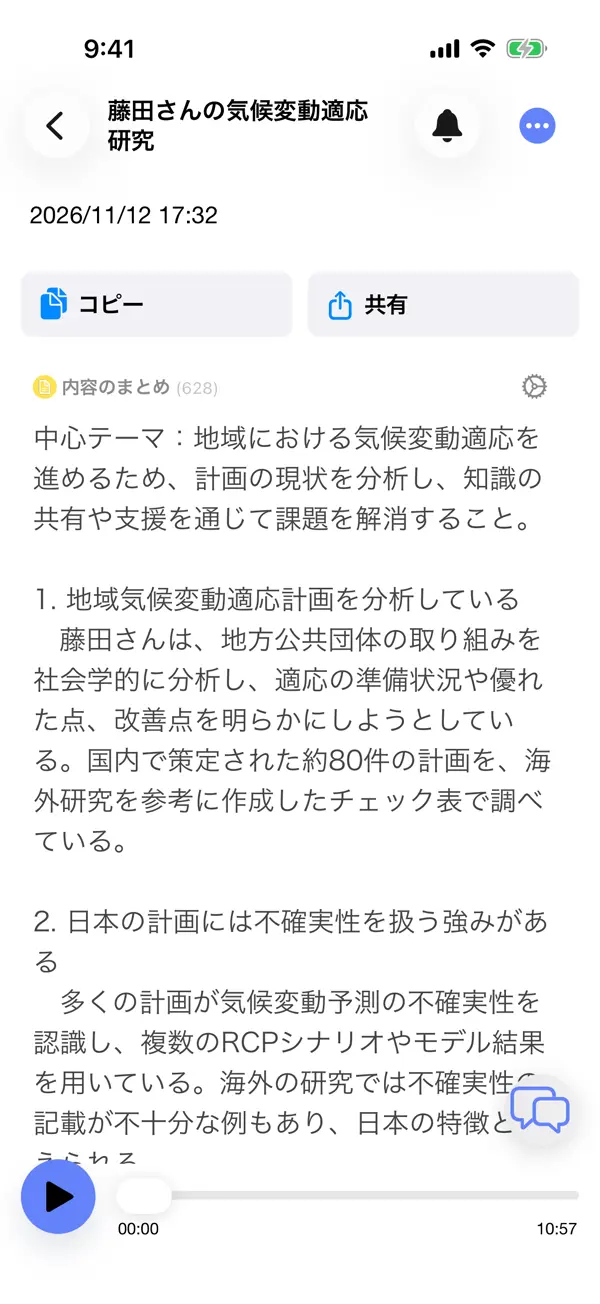
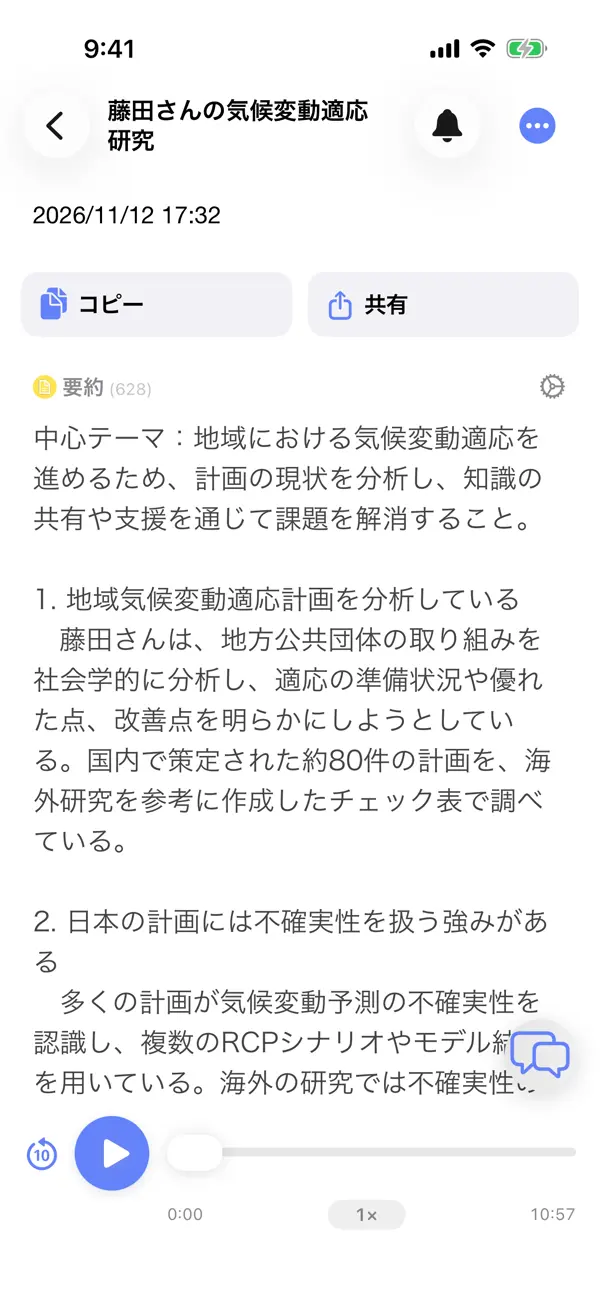
fix(guides): 講義と話題マップのガイドを、配信中の版の画面と文言に合わせる (#59)
* fix(guides): 講義と話題マップのガイドを、配信中の版の画面と文言に合わせる

- 画面写真を、バージョン2.11.73で撮り直したものに差し替える
- 変わった文言（要約、話題、段落、ノートに聞く）に合わせて説明を直す
- 確認問題の3問目の全文を載せる
- 「地震対策」の話題は、11件すべてを読んだ結果に書き直す
- 検証の条件に、どの版で作り、どの版で確かめたかを書く

Claude-Session: https://claude.ai/code/session_01CJsRxCTpnZew4R4ksq7zCX

* fix(guides): 「地震対策」の話題の分け方と、所要時間を測った版の表記を直す

Claude-Session: https://claude.ai/code/session_01CJsRxCTpnZew4R4ksq7zCX

---------

diff --git a/scripts/guides/data.js b/scripts/guides/data.js
@@ -960,12 +960,12 @@ const lectureNotes = {
     { id: 'result', cta: 'after-result', title: '36分の講義で試した結果', html: `
       <dl class="facts">
         <dt>音声</dt><dd>36分19秒。講師1人が話す、研修の講義です</dd>
-        <dt>かかった時間</dt><dd>取り込みを始めてから、ノートができるまで約9分でした（1回の測定）</dd>
+        <dt>かかった時間</dt><dd>取り込みを始めてから、ノートができるまで約9分でした（バージョン2.11.68で1回測定）</dd>
         <dt>文字起こし</dt><dd>アプリからコピーした本文は、改行を含めて12,697文字でした</dd>
         <dt>要約</dt><dd>747文字。文字起こしの後に、操作をしなくても作られました</dd>
         <dt>題名</dt><dd>「気候変動予測とダウンスケーリング技術について」と自動で付きました</dd>
       </dl>
-      ${wide(fig('/assets/guides/lecture-notes/note-summary.webp', '講義のノートの画面。題名の下に、内容のまとめが表示されている', '取り込んだ後のノート。上に要約、下に本文が続く', ...FULL))}
+      ${wide(fig('/assets/guides/lecture-notes/note-summary.webp', '講義のノートの画面。題名の下に、要約が表示されている', '取り込んだ後のノート。上に要約、下に本文が続く', ...FULL))}
       <p>アプリが作った要約の全文です。修正していません。</p>
       <pre class="code"><code>中心テーマ：気候変動予測データの成り立ちと、目的に応じた適切な利用
 
@@ -990,7 +990,7 @@ CMIP5などの全球モデルは世界全体を計算するため、日本海側
         <li><h3>録音を取り込む</h3><p>「設定」タブの「ファイルをインポート」を開き、「音声ファイルをインポート」で録音を選びます。今回は、「ファイル」アプリに置いた音声を選びました。取り込みの画面は<a href="/guides/ai-minutes/#steps">議事録のガイド</a>に載せています。</p></li>
         <li><h3>要約で全体をつかむ</h3><p>処理が終わると、ノートの上に要約が出ます。まず要約を読み、講義がいくつの話題でできているかをつかみます。</p></li>
         <li><h3>本文に戻って確かめる</h3><p>試験やレポートで使う数値と用語は、本文を検索して確かめます。本文は講師の話し言葉のままなので、前後の文脈も読めます。</p></li>
-        <li><h3>確認問題を作る</h3><p>ノートの右下のボタンからチャットを開き、問題を作るよう頼みます。答えは自分で書き、本文と照らします。</p></li>
+        <li><h3>確認問題を作る</h3><p>ノートの右下にある吹き出しのボタンからチャットを開き、問題を作るよう頼みます。答えは自分で書き、本文と照らします。</p></li>
         <li><h3>書き出す</h3><p>「コピー」から、本文か要約を選んでコピーできます。メモアプリなどに貼り、自分の言葉で書き足すと、復習ノートになります。書き方は、下の<a href="#note-example">復習ノートの例</a>を参考にしてください。</p></li>
       </ol>` },
     { id: 'note-example', title: '復習ノートの例', html: `
@@ -1025,12 +1025,12 @@ CMIP5などの全球モデルは世界全体を計算するため、日本海側
       </tbody></table></div>
       <p>同じ用語でも、正しい箇所と誤った箇所がありました。「全球モデル」は17か所、「ダウンスケーリング」は27か所で正しく表記され、上の表の箇所だけが別の字になっています。誤りは、用語を検索しても見つかりません。配布資料や板書と照らしながら、本文を通して読んでください。</p>` },
     { id: 'quiz', title: 'チャットで確認問題を作った結果', html: `
-      <p>ノートのチャットを開くと、「長めの講義ですね」という案内と、「重要概念を整理」「テスト問題を作成」などの候補が出ました。「テスト問題を作成」を選ぶと、次の3問が返りました。3問目は、画面で読めた範囲を載せています。</p>
-      ${fig('/assets/guides/lecture-notes/chat-welcome.webp', 'チャットを開いた直後の画面。要約して、重要概念を整理、テスト問題を作成の候補がある', 'チャットを開いた直後の候補', ...FULL)}${fig('/assets/guides/lecture-notes/chat-quiz.webp', 'チャットの画面。理解度確認のテスト問題を3つ作成してください、という依頼と、問題1から問題3が表示されている', '返ってきた確認問題', ...FULL)}
+      <p>ノートの右下にある吹き出しのボタンを押すと、チャットが開きます。入力欄の上に、「要約して」「重要概念を整理」「テスト問題を作成」などの候補が並びます。「テスト問題を作成」を選ぶと、次の3問が返りました。</p>
+      ${wide(fig('/assets/guides/lecture-notes/chat-quiz.webp', 'チャットの画面。理解度確認のテスト問題を3つ作成してください、という依頼と、問題1から問題3が表示されている。下に候補が並ぶ', '返ってきた確認問題と、入力欄の上の候補', ...FULL))}
       <ul>
         <li>問題1：RCPシナリオでは、数字が大きいほどどのような排出の想定になりますか。また、RCP2.6が注目される理由は何ですか？</li>
         <li>問題2：全球モデルだけでは地域の気候を詳しく把握しにくいのはなぜですか。地域単位の情報を得るための方法を2つ挙げてください。</li>
-        <li>問題3：長期的な温暖化傾向と、洪水・熱波などの極端現象を評価する場合、それぞれどのダウンスケーリング手法が適していると説明されて（以下は画面の外）</li>
+        <li>問題3：長期的な温暖化傾向と、洪水・熱波などの極端現象を評価する場合、それぞれどのダウンスケーリング手法が適していると説明されていますか？</li>
       </ul>
       <p>3問とも、要約の項目に対応した内容でした。問題の答えは、今回は作っていません。チャットの答えには誤りが含まれる場合があるので、解答を作らせたときも本文で確かめてください。無料版のチャットは1日3回までです。今回は、チャットで「要約して」を選んだ分と合わせて2回使い、画面には「残り1回」と出ました。</p>` },
     { id: 'notes', title: '始める前の注意', html: `
@@ -1045,7 +1045,7 @@ CMIP5などの全球モデルは世界全体を計算するため、日本海側
       <dl class="facts">
         <dt>検証した人</dt><dd>Texter運営</dd>
         <dt>検証日</dt><dd>2026-11-12</dd>
-        <dt>環境</dt><dd>${ENV}。無料の状態で、文字起こしの方式は既定のままです。製品版では、画面や結果が異なる場合があります。今回の環境では広告が出ませんでした。製品版の無料版では、取り込みの前に動画広告が出る場合があります。</dd>
+        <dt>環境</dt><dd>iPhone 17 ProのSimulator（iOS 26.5）で動かした開発版のTexter。文字起こし、題名、要約、チャットの回答はバージョン2.11.68で作り、画面と手順はバージョン2.11.73で確かめ直しました。画面写真は2.11.73のものです。無料の状態で、文字起こしの方式は既定のままです。製品版では、画面や結果が異なる場合があります。今回の環境では広告が出ませんでした。製品版の無料版では、取り込みの前に動画広告が出る場合があります。</dd>
         <dt>音声</dt><dd>「講義1：気候変動予測の背景【令和２年度 気候変動適応研修（中級コース）】」（<a href="https://www.youtube.com/watch?v=CWKzoUU6-IU" target="_blank" rel="noopener noreferrer">YouTube</a>、公開元のチャンネルはCCCA）。YouTube上で「<a href="https://support.google.com/youtube/answer/2797468?hl=ja" target="_blank" rel="noopener noreferrer">クリエイティブ・コモンズ 表示（CC BY）</a>」のライセンスが表示されています（2026-11-12に確認）。音声だけを取り出し、加工せずに取り込みました。</dd>
         <dt>掲載した文</dt><dd>要約、本文の抜粋、確認問題は、Texter運営がアプリで処理して得た出力です。公開元が作成・確認したものではありません。本文の全文は載せていません。</dd>
         <dt>確かめていないこと</dt><dd>音声と本文の聞き比べ、誤りの割合、ほかの講義や端末での速さ</dd>
@@ -1070,17 +1070,17 @@ const interviewTopics = {
   store: 'guide-interview-topic-map',
   sections: [
     { id: 'summary', title: '結論', html: `
-      <p>約11分のインタビューは、話題マップで7つの話題に分かれました。話題を押すと、その話題に入った本文の区切りが一覧で出ます。全体を見渡す下準備には使えました。</p>
+      <p>約11分のインタビューは、話題マップで7つの話題に分かれました。話題を押すと、その話題に入った本文の段落が一覧で出ます。全体を見渡す下準備には使えました。</p>
       <p>話題の名前は、そのままでは分析に使えません。たとえ話に出た語や、誤認識の語が名前になった話題がありました。研究のコードは、発言を読んでから自分で付けてください。</p>` },
     { id: 'result', cta: 'after-result', title: '約11分のインタビューで試した結果', html: `
       <dl class="facts">
         <dt>音声</dt><dd>10分57秒。聞き手1人と研究者1人の対話です</dd>
-        <dt>かかった時間</dt><dd>取り込みを始めてから、ノートができるまで約3分でした（1回の測定）</dd>
+        <dt>かかった時間</dt><dd>取り込みを始めてから、ノートができるまで約3分でした（バージョン2.11.68で1回測定）</dd>
         <dt>文字起こし</dt><dd>アプリからコピーした本文は、改行を含めて4,084文字でした。話者のラベルは付いていません</dd>
         <dt>要約</dt><dd>628文字。文字起こしの後に、操作をしなくても作られました</dd>
         <dt>話題マップ</dt><dd>7つの話題。各話題の件数を合わせると91件でした</dd>
       </dl>
-      ${wide(fig('/assets/guides/interview-topics/note.webp', 'インタビューのノートの画面。題名の下に、内容のまとめが表示されている', '取り込んだ後のノート', ...FULL))}
+      ${wide(fig('/assets/guides/interview-topics/note.webp', 'インタビューのノートの画面。題名の下に、要約が表示されている', '取り込んだ後のノート', ...FULL))}
       <p>アプリが作った要約の全文です。修正していません。テキストは<a href="/assets/guides/interview-topics/summary.txt" download>ファイル</a>でも確認できます。</p>
       <pre class="code"><code>中心テーマ：地域における気候変動適応を進めるため、計画の現状を分析し、知識の共有や支援を通じて課題を解消すること。
 
@@ -1102,21 +1102,21 @@ const interviewTopics = {
     { id: 'steps', cta: 'after-steps', title: '話題マップを開く手順', html: `
       <ol class="steps">
         <li><h3>録音を取り込む</h3><p>「設定」タブの「ファイルをインポート」を開き、「音声ファイルをインポート」で録音を選びます。取り込みの画面は<a href="/guides/ai-minutes/#steps">議事録のガイド</a>に載せています。</p></li>
-        <li><h3>話題マップを開く</h3><p>ノートの右上のメニューを開き、「可視化」の「話題マップ」を選びます。今回は、1分かからずに作成が終わりました。</p></li>
-        <li><h3>話題の一覧を見る</h3><p>上に話題の丸、下に話題の一覧が出ます。丸の数字と一覧の件数は、その話題に入った本文の区切りの数です。</p>${fig('/assets/guides/interview-topics/topic-map.webp', '話題マップの画面。7つの丸に話題名と件数が付いている', '7つの話題に分かれた話題マップ', 600, 1100)}${fig('/assets/guides/interview-topics/topic-list.webp', '話題の一覧。地域気候変動適応計画30件、改善点分析14件などが並ぶ', '話題の一覧と件数', 600, 1100)}</li>
-        <li><h3>話題に入った本文を読む</h3><p>話題を押すと、その話題に入った本文の区切りが番号つきで並びます。アプリの表示は「パラグラフ」で、1人の発言の単位とは限りません。ここで、話題名と中身が合っているかを確かめます。</p>${fig('/assets/guides/interview-topics/topic-detail.webp', '「地震対策」の話題を開いた画面。11件のパラグラフとして、本文の区切りが番号つきで並んでいる', '「地震対策」に入った本文の区切り', 600, 1100)}</li>
+        <li><h3>話題マップを開く</h3><p>ノートの右上のメニューを開き、「可視化」の「話題マップ」を選びます。バージョン2.11.68で作ったときは、1分かからずに終わりました。</p></li>
+        <li><h3>話題の一覧を見る</h3><p>上に話題の丸、下に話題の一覧が出ます。丸の数字と一覧の件数は、その話題に入った本文の段落の数です。</p>${fig('/assets/guides/interview-topics/topic-map.webp', '話題マップの画面。7つの丸に話題名と件数が付いている', '7つの話題に分かれた話題マップ', 600, 1100)}${fig('/assets/guides/interview-topics/topic-list.webp', '話題の一覧。地域気候変動適応計画30件、改善点分析14件などが並ぶ', '話題の一覧と件数', 600, 1100)}</li>
+        <li><h3>話題に入った本文を読む</h3><p>話題を押すと、その話題に入った本文が番号つきで並びます。アプリの表示は「段落」で、1人の発言の単位とは限りません。ここで、話題名と中身が合っているかを確かめます。</p>${fig('/assets/guides/interview-topics/topic-detail.webp', '「地震対策」の話題を開いた画面。11件の段落として、本文が番号つきで並んでいる', '「地震対策」に入った段落（1〜5件目）', 600, 1100)}${fig('/assets/guides/interview-topics/topic-detail-rest.webp', '「地震対策」の段落の続き。3件目から11件目が並んでいる', '同じ話題の3〜11件目', 600, 1100)}</li>
       </ol>` },
     { id: 'topics', title: '7つの話題と、名前がずれた例', html: `
       <div class="scroll"><table class="compare"><thead><tr><th scope="col">話題名（アプリの表示）</th><th scope="col">件数</th><th scope="col">本文と照らして分かったこと</th></tr></thead><tbody>
         <tr><th scope="row">地域気候変動適応計画</th><td>30件</td><td>インタビューの中心の話題。本文にも同じ語がある</td></tr>
         <tr><th scope="row">改善点分析</th><td>14件</td><td>中身は確かめていない</td></tr>
         <tr><th scope="row">コストベネフィット分析</th><td>13件</td><td>本文に「適応策のコストと」「ベネフィットの両者を勘案して」とある</td></tr>
-        <tr><th scope="row">地震対策</th><td>11件</td><td>画面で読めた5件のうち4件は、対策に移るまでのハードルの話。地震は、聞き手が出したたとえ</td></tr>
+        <tr><th scope="row">地震対策</th><td>11件</td><td>11件のうち6件は、対策に移るまでのハードルの話。地震は、聞き手が出したたとえ。残りの5件は別の話</td></tr>
         <tr><th scope="row">経営科学</th><td>10件</td><td>本文の「多くの分析した経営科学の中で」から付いた名前と考えられる。この箇所は誤認識の可能性がある</td></tr>
         <tr><th scope="row">不十分性分析</th><td>8件</td><td>中身は確かめていない</td></tr>
         <tr><th scope="row">行政官の専門知識習得の課</th><td>5件</td><td>名前が「課」で途切れている。「課題」の途中で切れたと考えられる。本文に「専門知識の習得」とある</td></tr>
       </tbody></table></div>
-      <p>「地震対策」を開き、11件のうち画面で読めた5件を確かめました。2件目から5件目は、「例えば地震の対策みたいなものは」に始まる聞き手の質問と、それへの答えです。話の中身は気候変動への対策の遅れで、地震はたとえとして出ただけでした。1件目の「つまり被害額を抑える動きとかができるかもしれないですけれども」は、費用と効果を述べた箇所の一部で、別の話題に近い内容です。6件目より後は確かめていません。</p>
+      <p>「地震対策」を開き、11件すべてを読みました。2件目から7件目の6件は、「例えば地震の対策みたいなものは」に始まる聞き手の質問と、それへの答えです。話の中身は気候変動への対策の遅れで、地震はたとえとして出ただけでした。1件目の「つまり被害額を抑える動きとかができるかもしれないですけれども」は、費用と効果を述べた箇所の一部です。8件目から11件目の4件は、次の質問への答えで、適応を進めるうえでの課題と、地域のセンターの活動の課題の話でした。1つの話題に、3つの話が入っていたことになります。</p>
       <p>「経営科学」は、話の流れに合わない分野の名前です。本文に1回だけ出る語で、文脈からは、分析した計画や研究を指す語が別の語として認識されたと考えられます。誤認識の語が話題名になった可能性があります。この話題の中身は確かめていません。</p>` },
     { id: 'after-map', title: '話題マップの後にすること', html: `
       <p>話題マップで決めるのは、読む順番です。下は、今回の結果から運営が組み立てた作業メモの例です。アプリが自動で作る形式ではありません。</p>
@@ -1142,7 +1142,7 @@ const interviewTopics = {
       <ul>
         <li>話題マップは、アプリが発言を自動で分けた結果です。研究のコーディングの代わりにはなりません。読む順番を決める下準備として使ってください</li>
         <li>今回の本文には、話者のラベルがありません。聞き手の質問と話し手の答えが、同じ話題に並びます。話者を分けるには、Premiumの話者識別が要ります。話者を分けた結果は、今回は確かめていません</li>
-        <li>話題に入らなかった発言があるかは、確かめていません。本文は170行で、各話題の件数の合計は91件でした。数え方が同じかは分からないので、漏れの有無は本文を通して読んで確かめてください</li>
+        <li>話題に入らなかった本文があるかは、確かめていません。本文は170行で、各話題の件数の合計は91件でした。数え方が同じかは分からないので、漏れの有無は本文を通して読んで確かめてください</li>
         <li>要約は、話し手の言葉をそのまま残したものではありません。引用には使わず、本文と音声に戻ってください</li>
         <li>既定の方式の文字起こしは音声を、話題マップと要約は文字を、処理のために外部へ送ります。研究計画と同意の範囲に合うかを、先に確認してください。確認する項目は<a href="/guides/research-interview-transcription/#before-import">研究インタビューのガイド</a>にまとめています</li>
       </ul>` },
@@ -1151,10 +1151,10 @@ const interviewTopics = {
       <dl class="facts">
         <dt>検証した人</dt><dd>Texter運営</dd>
         <dt>検証日</dt><dd>2026-11-12</dd>
-        <dt>環境</dt><dd>${ENV}。無料の状態で、文字起こしの方式は既定のままです。製品版では、画面や結果が異なる場合があります。今回の環境では広告が出ませんでした。製品版の無料版では、取り込みの前に動画広告が出る場合があります。話題マップの画面写真は、開発用の表示が入る上端を切っています。</dd>
+        <dt>環境</dt><dd>iPhone 17 ProのSimulator（iOS 26.5）で動かした開発版のTexter。文字起こし、題名、要約、話題マップはバージョン2.11.68で作り、画面と手順はバージョン2.11.73で確かめ直しました。画面写真は2.11.73のものです。無料の状態で、文字起こしの方式は既定のままです。製品版では、画面や結果が異なる場合があります。今回の環境では広告が出ませんでした。製品版の無料版では、取り込みの前に動画広告が出る場合があります。話題マップの画面写真は、開発用の表示が入る上端を切っています。</dd>
         <dt>音声</dt><dd>「A-PLATube #7 藤田研究員に聞く！日本の地域適応計画は優れてる？」（<a href="https://www.youtube.com/watch?v=EV1QHWqYfUU" target="_blank" rel="noopener noreferrer">YouTube</a>、公開元のチャンネルはCCCA）。YouTube上で「<a href="https://support.google.com/youtube/answer/2797468?hl=ja" target="_blank" rel="noopener noreferrer">クリエイティブ・コモンズ 表示（CC BY）</a>」のライセンスが表示されています（2026-11-12に確認）。音声だけを取り出し、加工せずに取り込みました。</dd>
         <dt>掲載した文</dt><dd>要約、本文の抜粋、話題名は、Texter運営がアプリで処理して得た出力です。公開元が作成・確認したものではありません。本文の全文は載せていません。</dd>
-        <dt>確かめていないこと</dt><dd>音声と本文の聞き比べ、「地震対策」の6件目以降とほかの話題の中身、同じ音声でもう一度作ったときに同じ話題になるか、話者を分けた場合の結果</dd>
+        <dt>確かめていないこと</dt><dd>音声と本文の聞き比べ、「地震対策」以外の話題の中身、同じ音声でもう一度作ったときに同じ話題になるか、話者を分けた場合の結果</dd>
       </dl>` },
   ],
   ctaTitle: 'Texterで試す',

diff --git a/dist/guides/interview-topic-map/index.html b/dist/guides/interview-topic-map/index.html
@@ -184,17 +184,17 @@ footer p{margin:12px 0 0}
 <p class="meta">検証日 <time datetime="2026-11-12">2026-11-12</time></p>
 <nav class="toc" aria-labelledby="toc-h"><h2 id="toc-h">目次</h2><ul><li><a href="#summary">結論</a></li><li><a href="#result">約11分のインタビューで試した結果</a></li><li><a href="#steps">話題マップを開く手順</a></li><li><a href="#topics">7つの話題と、名前がずれた例</a></li><li><a href="#after-map">話題マップの後にすること</a></li><li><a href="#errors">見つけた誤認識</a></li><li><a href="#research">質的調査で使うときの注意</a></li><li><a href="#next">関連するガイド</a></li><li><a href="#method">検証の条件</a></li></ul></nav>
 <section class="sec" id="summary" aria-labelledby="summary-h"><h2 id="summary-h">結論</h2>
-      <p>約11分のインタビューは、話題マップで7つの話題に分かれました。話題を押すと、その話題に入った本文の区切りが一覧で出ます。全体を見渡す下準備には使えました。</p>
+      <p>約11分のインタビューは、話題マップで7つの話題に分かれました。話題を押すと、その話題に入った本文の段落が一覧で出ます。全体を見渡す下準備には使えました。</p>
       <p>話題の名前は、そのままでは分析に使えません。たとえ話に出た語や、誤認識の語が名前になった話題がありました。研究のコードは、発言を読んでから自分で付けてください。</p></section>
 <section class="sec" id="result" aria-labelledby="result-h"><h2 id="result-h">約11分のインタビューで試した結果</h2>
       <dl class="facts">
         <dt>音声</dt><dd>10分57秒。聞き手1人と研究者1人の対話です</dd>
-        <dt>かかった時間</dt><dd>取り込みを始めてから、ノートができるまで約3分でした（1回の測定）</dd>
+        <dt>かかった時間</dt><dd>取り込みを始めてから、ノートができるまで約3分でした（バージョン2.11.68で1回測定）</dd>
         <dt>文字起こし</dt><dd>アプリからコピーした本文は、改行を含めて4,084文字でした。話者のラベルは付いていません</dd>
         <dt>要約</dt><dd>628文字。文字起こしの後に、操作をしなくても作られました</dd>
         <dt>話題マップ</dt><dd>7つの話題。各話題の件数を合わせると91件でした</dd>
       </dl>
-      <figure class="shot wide"><a href="/assets/guides/interview-topics/note.webp"><img src="/assets/guides/interview-topics/note.webp" alt="インタビューのノートの画面。題名の下に、内容のまとめが表示されている" width="600" height="1304" loading="lazy" decoding="async"></a><figcaption>取り込んだ後のノート</figcaption></figure>
+      <figure class="shot wide"><a href="/assets/guides/interview-topics/note.webp"><img src="/assets/guides/interview-topics/note.webp" alt="インタビューのノートの画面。題名の下に、要約が表示されている" width="600" height="1304" loading="lazy" decoding="async"></a><figcaption>取り込んだ後のノート</figcaption></figure>
       <p>アプリが作った要約の全文です。修正していません。テキストは<a href="/assets/guides/interview-topics/summary.txt" download>ファイル</a>でも確認できます。</p>
       <pre class="code"><code>中心テーマ：地域における気候変動適応を進めるため、計画の現状を分析し、知識の共有や支援を通じて課題を解消すること。
 
@@ -216,21 +216,21 @@ footer p{margin:12px 0 0}
 <section class="sec" id="steps" aria-labelledby="steps-h"><h2 id="steps-h">話題マップを開く手順</h2>
       <ol class="steps">
         <li><h3>録音を取り込む</h3><p>「設定」タブの「ファイルをインポート」を開き、「音声ファイルをインポート」で録音を選びます。取り込みの画面は<a href="/guides/ai-minutes/#steps">議事録のガイド</a>に載せています。</p></li>
-        <li><h3>話題マップを開く</h3><p>ノートの右上のメニューを開き、「可視化」の「話題マップ」を選びます。今回は、1分かからずに作成が終わりました。</p></li>
-        <li><h3>話題の一覧を見る</h3><p>上に話題の丸、下に話題の一覧が出ます。丸の数字と一覧の件数は、その話題に入った本文の区切りの数です。</p><figure class="shot"><a href="/assets/guides/interview-topics/topic-map.webp"><img src="/assets/guides/interview-topics/topic-map.webp" alt="話題マップの画面。7つの丸に話題名と件数が付いている" width="600" height="1100" loading="lazy" decoding="async"></a><figcaption>7つの話題に分かれた話題マップ</figcaption></figure><figure class="shot"><a href="/assets/guides/interview-topics/topic-list.webp"><img src="/assets/guides/interview-topics/topic-list.webp" alt="話題の一覧。地域気候変動適応計画30件、改善点分析14件などが並ぶ" width="600" height="1100" loading="lazy" decoding="async"></a><figcaption>話題の一覧と件数</figcaption></figure></li>
-        <li><h3>話題に入った本文を読む</h3><p>話題を押すと、その話題に入った本文の区切りが番号つきで並びます。アプリの表示は「パラグラフ」で、1人の発言の単位とは限りません。ここで、話題名と中身が合っているかを確かめます。</p><figure class="shot"><a href="/assets/guides/interview-topics/topic-detail.webp"><img src="/assets/guides/interview-topics/topic-detail.webp" alt="「地震対策」の話題を開いた画面。11件のパラグラフとして、本文の区切りが番号つきで並んでいる" width="600" height="1100" loading="lazy" decoding="async"></a><figcaption>「地震対策」に入った本文の区切り</figcaption></figure></li>
+        <li><h3>話題マップを開く</h3><p>ノートの右上のメニューを開き、「可視化」の「話題マップ」を選びます。バージョン2.11.68で作ったときは、1分かからずに終わりました。</p></li>
+        <li><h3>話題の一覧を見る</h3><p>上に話題の丸、下に話題の一覧が出ます。丸の数字と一覧の件数は、その話題に入った本文の段落の数です。</p><figure class="shot"><a href="/assets/guides/interview-topics/topic-map.webp"><img src="/assets/guides/interview-topics/topic-map.webp" alt="話題マップの画面。7つの丸に話題名と件数が付いている" width="600" height="1100" loading="lazy" decoding="async"></a><figcaption>7つの話題に分かれた話題マップ</figcaption></figure><figure class="shot"><a href="/assets/guides/interview-topics/topic-list.webp"><img src="/assets/guides/interview-topics/topic-list.webp" alt="話題の一覧。地域気候変動適応計画30件、改善点分析14件などが並ぶ" width="600" height="1100" loading="lazy" decoding="async"></a><figcaption>話題の一覧と件数</figcaption></figure></li>
+        <li><h3>話題に入った本文を読む</h3><p>話題を押すと、その話題に入った本文が番号つきで並びます。アプリの表示は「段落」で、1人の発言の単位とは限りません。ここで、話題名と中身が合っているかを確かめます。</p><figure class="shot"><a href="/assets/guides/interview-topics/topic-detail.webp"><img src="/assets/guides/interview-topics/topic-detail.webp" alt="「地震対策」の話題を開いた画面。11件の段落として、本文が番号つきで並んでいる" width="600" height="1100" loading="lazy" decoding="async"></a><figcaption>「地震対策」に入った段落（1〜5件目）</figcaption></figure><figure class="shot"><a href="/assets/guides/interview-topics/topic-detail-rest.webp"><img src="/assets/guides/interview-topics/topic-detail-rest.webp" alt="「地震対策」の段落の続き。3件目から11件目が並んでいる" width="600" height="1100" loading="lazy" decoding="async"></a><figcaption>同じ話題の3〜11件目</figcaption></figure></li>
       </ol></section><aside class="cta inline" aria-label="アプリで試す"><div class="row"><a class="btn btn-solid" href="https://apps.apple.com/jp/app/id1482592304?pt=489812&amp;ct=guide-interview-topic-map-after-steps&amp;mt=8" target="_blank" rel="noopener noreferrer" data-cta="guide-interview-topic-map-after-steps" data-store="app_store">iPhoneでインタビューを文字にする（App Store）</a></div></aside>
 <section class="sec" id="topics" aria-labelledby="topics-h"><h2 id="topics-h">7つの話題と、名前がずれた例</h2>
       <div class="scroll"><table class="compare"><thead><tr><th scope="col">話題名（アプリの表示）</th><th scope="col">件数</th><th scope="col">本文と照らして分かったこと</th></tr></thead><tbody>
         <tr><th scope="row">地域気候変動適応計画</th><td>30件</td><td>インタビューの中心の話題。本文にも同じ語がある</td></tr>
         <tr><th scope="row">改善点分析</th><td>14件</td><td>中身は確かめていない</td></tr>
         <tr><th scope="row">コストベネフィット分析</th><td>13件</td><td>本文に「適応策のコストと」「ベネフィットの両者を勘案して」とある</td></tr>
-        <tr><th scope="row">地震対策</th><td>11件</td><td>画面で読めた5件のうち4件は、対策に移るまでのハードルの話。地震は、聞き手が出したたとえ</td></tr>
+        <tr><th scope="row">地震対策</th><td>11件</td><td>11件のうち6件は、対策に移るまでのハードルの話。地震は、聞き手が出したたとえ。残りの5件は別の話</td></tr>
         <tr><th scope="row">経営科学</th><td>10件</td><td>本文の「多くの分析した経営科学の中で」から付いた名前と考えられる。この箇所は誤認識の可能性がある</td></tr>
         <tr><th scope="row">不十分性分析</th><td>8件</td><td>中身は確かめていない</td></tr>
         <tr><th scope="row">行政官の専門知識習得の課</th><td>5件</td><td>名前が「課」で途切れている。「課題」の途中で切れたと考えられる。本文に「専門知識の習得」とある</td></tr>
       </tbody></table></div>
-      <p>「地震対策」を開き、11件のうち画面で読めた5件を確かめました。2件目から5件目は、「例えば地震の対策みたいなものは」に始まる聞き手の質問と、それへの答えです。話の中身は気候変動への対策の遅れで、地震はたとえとして出ただけでした。1件目の「つまり被害額を抑える動きとかができるかもしれないですけれども」は、費用と効果を述べた箇所の一部で、別の話題に近い内容です。6件目より後は確かめていません。</p>
+      <p>「地震対策」を開き、11件すべてを読みました。2件目から7件目の6件は、「例えば地震の対策みたいなものは」に始まる聞き手の質問と、それへの答えです。話の中身は気候変動への対策の遅れで、地震はたとえとして出ただけでした。1件目の「つまり被害額を抑える動きとかができるかもしれないですけれども」は、費用と効果を述べた箇所の一部です。8件目から11件目の4件は、次の質問への答えで、適応を進めるうえでの課題と、地域のセンターの活動の課題の話でした。1つの話題に、3つの話が入っていたことになります。</p>
       <p>「経営科学」は、話の流れに合わない分野の名前です。本文に1回だけ出る語で、文脈からは、分析した計画や研究を指す語が別の語として認識されたと考えられます。誤認識の語が話題名になった可能性があります。この話題の中身は確かめていません。</p></section>
 <section class="sec" id="after-map" aria-labelledby="after-map-h"><h2 id="after-map-h">話題マップの後にすること</h2>
       <p>話題マップで決めるのは、読む順番です。下は、今回の結果から運営が組み立てた作業メモの例です。アプリが自動で作る形式ではありません。</p>
@@ -256,7 +256,7 @@ footer p{margin:12px 0 0}
       <ul>
         <li>話題マップは、アプリが発言を自動で分けた結果です。研究のコーディングの代わりにはなりません。読む順番を決める下準備として使ってください</li>
         <li>今回の本文には、話者のラベルがありません。聞き手の質問と話し手の答えが、同じ話題に並びます。話者を分けるには、Premiumの話者識別が要ります。話者を分けた結果は、今回は確かめていません</li>
-        <li>話題に入らなかった発言があるかは、確かめていません。本文は170行で、各話題の件数の合計は91件でした。数え方が同じかは分からないので、漏れの有無は本文を通して読んで確かめてください</li>
+        <li>話題に入らなかった本文があるかは、確かめていません。本文は170行で、各話題の件数の合計は91件でした。数え方が同じかは分からないので、漏れの有無は本文を通して読んで確かめてください</li>
         <li>要約は、話し手の言葉をそのまま残したものではありません。引用には使わず、本文と音声に戻ってください</li>
         <li>既定の方式の文字起こしは音声を、話題マップと要約は文字を、処理のために外部へ送ります。研究計画と同意の範囲に合うかを、先に確認してください。確認する項目は<a href="/guides/research-interview-transcription/#before-import">研究インタビューのガイド</a>にまとめています</li>
       </ul></section>
@@ -265,10 +265,10 @@ footer p{margin:12px 0 0}
       <dl class="facts">
         <dt>検証した人</dt><dd>Texter運営</dd>
         <dt>検証日</dt><dd>2026-11-12</dd>
-        <dt>環境</dt><dd>iPhone 17 ProのSimulator（iOS 26.5）で動かした開発版のTexter（バージョン2.11.68）。無料の状態で、文字起こしの方式は既定のままです。製品版では、画面や結果が異なる場合があります。今回の環境では広告が出ませんでした。製品版の無料版では、取り込みの前に動画広告が出る場合があります。話題マップの画面写真は、開発用の表示が入る上端を切っています。</dd>
+        <dt>環境</dt><dd>iPhone 17 ProのSimulator（iOS 26.5）で動かした開発版のTexter。文字起こし、題名、要約、話題マップはバージョン2.11.68で作り、画面と手順はバージョン2.11.73で確かめ直しました。画面写真は2.11.73のものです。無料の状態で、文字起こしの方式は既定のままです。製品版では、画面や結果が異なる場合があります。今回の環境では広告が出ませんでした。製品版の無料版では、取り込みの前に動画広告が出る場合があります。話題マップの画面写真は、開発用の表示が入る上端を切っています。</dd>
         <dt>音声</dt><dd>「A-PLATube #7 藤田研究員に聞く！日本の地域適応計画は優れてる？」（<a href="https://www.youtube.com/watch?v=EV1QHWqYfUU" target="_blank" rel="noopener noreferrer">YouTube</a>、公開元のチャンネルはCCCA）。YouTube上で「<a href="https://support.google.com/youtube/answer/2797468?hl=ja" target="_blank" rel="noopener noreferrer">クリエイティブ・コモンズ 表示（CC BY）</a>」のライセンスが表示されています（2026-11-12に確認）。音声だけを取り出し、加工せずに取り込みました。</dd>
         <dt>掲載した文</dt><dd>要約、本文の抜粋、話題名は、Texter運営がアプリで処理して得た出力です。公開元が作成・確認したものではありません。本文の全文は載せていません。</dd>
-        <dt>確かめていないこと</dt><dd>音声と本文の聞き比べ、「地震対策」の6件目以降とほかの話題の中身、同じ音声でもう一度作ったときに同じ話題になるか、話者を分けた場合の結果</dd>
+        <dt>確かめていないこと</dt><dd>音声と本文の聞き比べ、「地震対策」以外の話題の中身、同じ音声でもう一度作ったときに同じ話題になるか、話者を分けた場合の結果</dd>
       </dl></section>
 <section class="cta" aria-labelledby="cta-h"><h2 id="cta-h">Texterで試す</h2><p>Texterは、録音や音声ファイルから文字起こしと要約を作るアプリです。この手順はiPhone版のものです。無料で始められます。無料版の文字起こしには上限があり、要約は1日3回までです。処理の前に広告が表示される場合があります。条件は<a href="/pricing/">料金と利用条件</a>で確認できます。</p><div class="row"><a class="btn btn-solid" href="https://apps.apple.com/jp/app/id1482592304?pt=489812&amp;ct=guide-interview-topic-map-end&amp;mt=8" target="_blank" rel="noopener noreferrer" data-cta="guide-interview-topic-map-end" data-store="app_store">iPhoneでインタビューを文字にする（App Store）</a></div></section>
 </main>

diff --git a/guides/interview-topic-map/index.html b/guides/interview-topic-map/index.html
@@ -184,17 +184,17 @@ footer p{margin:12px 0 0}
 <p class="meta">検証日 <time datetime="2026-11-12">2026-11-12</time></p>
 <nav class="toc" aria-labelledby="toc-h"><h2 id="toc-h">目次</h2><ul><li><a href="#summary">結論</a></li><li><a href="#result">約11分のインタビューで試した結果</a></li><li><a href="#steps">話題マップを開く手順</a></li><li><a href="#topics">7つの話題と、名前がずれた例</a></li><li><a href="#after-map">話題マップの後にすること</a></li><li><a href="#errors">見つけた誤認識</a></li><li><a href="#research">質的調査で使うときの注意</a></li><li><a href="#next">関連するガイド</a></li><li><a href="#method">検証の条件</a></li></ul></nav>
 <section class="sec" id="summary" aria-labelledby="summary-h"><h2 id="summary-h">結論</h2>
-      <p>約11分のインタビューは、話題マップで7つの話題に分かれました。話題を押すと、その話題に入った本文の区切りが一覧で出ます。全体を見渡す下準備には使えました。</p>
+      <p>約11分のインタビューは、話題マップで7つの話題に分かれました。話題を押すと、その話題に入った本文の段落が一覧で出ます。全体を見渡す下準備には使えました。</p>
       <p>話題の名前は、そのままでは分析に使えません。たとえ話に出た語や、誤認識の語が名前になった話題がありました。研究のコードは、発言を読んでから自分で付けてください。</p></section>
 <section class="sec" id="result" aria-labelledby="result-h"><h2 id="result-h">約11分のインタビューで試した結果</h2>
       <dl class="facts">
         <dt>音声</dt><dd>10分57秒。聞き手1人と研究者1人の対話です</dd>
-        <dt>かかった時間</dt><dd>取り込みを始めてから、ノートができるまで約3分でした（1回の測定）</dd>
+        <dt>かかった時間</dt><dd>取り込みを始めてから、ノートができるまで約3分でした（バージョン2.11.68で1回測定）</dd>
         <dt>文字起こし</dt><dd>アプリからコピーした本文は、改行を含めて4,084文字でした。話者のラベルは付いていません</dd>
         <dt>要約</dt><dd>628文字。文字起こしの後に、操作をしなくても作られました</dd>
         <dt>話題マップ</dt><dd>7つの話題。各話題の件数を合わせると91件でした</dd>
       </dl>
-      <figure class="shot wide"><a href="/assets/guides/interview-topics/note.webp"><img src="/assets/guides/interview-topics/note.webp" alt="インタビューのノートの画面。題名の下に、内容のまとめが表示されている" width="600" height="1304" loading="lazy" decoding="async"></a><figcaption>取り込んだ後のノート</figcaption></figure>
+      <figure class="shot wide"><a href="/assets/guides/interview-topics/note.webp"><img src="/assets/guides/interview-topics/note.webp" alt="インタビューのノートの画面。題名の下に、要約が表示されている" width="600" height="1304" loading="lazy" decoding="async"></a><figcaption>取り込んだ後のノート</figcaption></figure>
       <p>アプリが作った要約の全文です。修正していません。テキストは<a href="/assets/guides/interview-topics/summary.txt" download>ファイル</a>でも確認できます。</p>
       <pre class="code"><code>中心テーマ：地域における気候変動適応を進めるため、計画の現状を分析し、知識の共有や支援を通じて課題を解消すること。
 
@@ -216,21 +216,21 @@ footer p{margin:12px 0 0}
 <section class="sec" id="steps" aria-labelledby="steps-h"><h2 id="steps-h">話題マップを開く手順</h2>
       <ol class="steps">
         <li><h3>録音を取り込む</h3><p>「設定」タブの「ファイルをインポート」を開き、「音声ファイルをインポート」で録音を選びます。取り込みの画面は<a href="/guides/ai-minutes/#steps">議事録のガイド</a>に載せています。</p></li>
-        <li><h3>話題マップを開く</h3><p>ノートの右上のメニューを開き、「可視化」の「話題マップ」を選びます。今回は、1分かからずに作成が終わりました。</p></li>
-        <li><h3>話題の一覧を見る</h3><p>上に話題の丸、下に話題の一覧が出ます。丸の数字と一覧の件数は、その話題に入った本文の区切りの数です。</p><figure class="shot"><a href="/assets/guides/interview-topics/topic-map.webp"><img src="/assets/guides/interview-topics/topic-map.webp" alt="話題マップの画面。7つの丸に話題名と件数が付いている" width="600" height="1100" loading="lazy" decoding="async"></a><figcaption>7つの話題に分かれた話題マップ</figcaption></figure><figure class="shot"><a href="/assets/guides/interview-topics/topic-list.webp"><img src="/assets/guides/interview-topics/topic-list.webp" alt="話題の一覧。地域気候変動適応計画30件、改善点分析14件などが並ぶ" width="600" height="1100" loading="lazy" decoding="async"></a><figcaption>話題の一覧と件数</figcaption></figure></li>
-        <li><h3>話題に入った本文を読む</h3><p>話題を押すと、その話題に入った本文の区切りが番号つきで並びます。アプリの表示は「パラグラフ」で、1人の発言の単位とは限りません。ここで、話題名と中身が合っているかを確かめます。</p><figure class="shot"><a href="/assets/guides/interview-topics/topic-detail.webp"><img src="/assets/guides/interview-topics/topic-detail.webp" alt="「地震対策」の話題を開いた画面。11件のパラグラフとして、本文の区切りが番号つきで並んでいる" width="600" height="1100" loading="lazy" decoding="async"></a><figcaption>「地震対策」に入った本文の区切り</figcaption></figure></li>
+        <li><h3>話題マップを開く</h3><p>ノートの右上のメニューを開き、「可視化」の「話題マップ」を選びます。バージョン2.11.68で作ったときは、1分かからずに終わりました。</p></li>
+        <li><h3>話題の一覧を見る</h3><p>上に話題の丸、下に話題の一覧が出ます。丸の数字と一覧の件数は、その話題に入った本文の段落の数です。</p><figure class="shot"><a href="/assets/guides/interview-topics/topic-map.webp"><img src="/assets/guides/interview-topics/topic-map.webp" alt="話題マップの画面。7つの丸に話題名と件数が付いている" width="600" height="1100" loading="lazy" decoding="async"></a><figcaption>7つの話題に分かれた話題マップ</figcaption></figure><figure class="shot"><a href="/assets/guides/interview-topics/topic-list.webp"><img src="/assets/guides/interview-topics/topic-list.webp" alt="話題の一覧。地域気候変動適応計画30件、改善点分析14件などが並ぶ" width="600" height="1100" loading="lazy" decoding="async"></a><figcaption>話題の一覧と件数</figcaption></figure></li>
+        <li><h3>話題に入った本文を読む</h3><p>話題を押すと、その話題に入った本文が番号つきで並びます。アプリの表示は「段落」で、1人の発言の単位とは限りません。ここで、話題名と中身が合っているかを確かめます。</p><figure class="shot"><a href="/assets/guides/interview-topics/topic-detail.webp"><img src="/assets/guides/interview-topics/topic-detail.webp" alt="「地震対策」の話題を開いた画面。11件の段落として、本文が番号つきで並んでいる" width="600" height="1100" loading="lazy" decoding="async"></a><figcaption>「地震対策」に入った段落（1〜5件目）</figcaption></figure><figure class="shot"><a href="/assets/guides/interview-topics/topic-detail-rest.webp"><img src="/assets/guides/interview-topics/topic-detail-rest.webp" alt="「地震対策」の段落の続き。3件目から11件目が並んでいる" width="600" height="1100" loading="lazy" decoding="async"></a><figcaption>同じ話題の3〜11件目</figcaption></figure></li>
       </ol></section><aside class="cta inline" aria-label="アプリで試す"><div class="row"><a class="btn btn-solid" href="https://apps.apple.com/jp/app/id1482592304?pt=489812&amp;ct=guide-interview-topic-map-after-steps&amp;mt=8" target="_blank" rel="noopener noreferrer" data-cta="guide-interview-topic-map-after-steps" data-store="app_store">iPhoneでインタビューを文字にする（App Store）</a></div></aside>
 <section class="sec" id="topics" aria-labelledby="topics-h"><h2 id="topics-h">7つの話題と、名前がずれた例</h2>
       <div class="scroll"><table class="compare"><thead><tr><th scope="col">話題名（アプリの表示）</th><th scope="col">件数</th><th scope="col">本文と照らして分かったこと</th></tr></thead><tbody>
         <tr><th scope="row">地域気候変動適応計画</th><td>30件</td><td>インタビューの中心の話題。本文にも同じ語がある</td></tr>
         <tr><th scope="row">改善点分析</th><td>14件</td><td>中身は確かめていない</td></tr>
         <tr><th scope="row">コストベネフィット分析</th><td>13件</td><td>本文に「適応策のコストと」「ベネフィットの両者を勘案して」とある</td></tr>
-        <tr><th scope="row">地震対策</th><td>11件</td><td>画面で読めた5件のうち4件は、対策に移るまでのハードルの話。地震は、聞き手が出したたとえ</td></tr>
+        <tr><th scope="row">地震対策</th><td>11件</td><td>11件のうち6件は、対策に移るまでのハードルの話。地震は、聞き手が出したたとえ。残りの5件は別の話</td></tr>
         <tr><th scope="row">経営科学</th><td>10件</td><td>本文の「多くの分析した経営科学の中で」から付いた名前と考えられる。この箇所は誤認識の可能性がある</td></tr>
         <tr><th scope="row">不十分性分析</th><td>8件</td><td>中身は確かめていない</td></tr>
         <tr><th scope="row">行政官の専門知識習得の課</th><td>5件</td><td>名前が「課」で途切れている。「課題」の途中で切れたと考えられる。本文に「専門知識の習得」とある</td></tr>
       </tbody></table></div>
-      <p>「地震対策」を開き、11件のうち画面で読めた5件を確かめました。2件目から5件目は、「例えば地震の対策みたいなものは」に始まる聞き手の質問と、それへの答えです。話の中身は気候変動への対策の遅れで、地震はたとえとして出ただけでした。1件目の「つまり被害額を抑える動きとかができるかもしれないですけれども」は、費用と効果を述べた箇所の一部で、別の話題に近い内容です。6件目より後は確かめていません。</p>
+      <p>「地震対策」を開き、11件すべてを読みました。2件目から7件目の6件は、「例えば地震の対策みたいなものは」に始まる聞き手の質問と、それへの答えです。話の中身は気候変動への対策の遅れで、地震はたとえとして出ただけでした。1件目の「つまり被害額を抑える動きとかができるかもしれないですけれども」は、費用と効果を述べた箇所の一部です。8件目から11件目の4件は、次の質問への答えで、適応を進めるうえでの課題と、地域のセンターの活動の課題の話でした。1つの話題に、3つの話が入っていたことになります。</p>
       <p>「経営科学」は、話の流れに合わない分野の名前です。本文に1回だけ出る語で、文脈からは、分析した計画や研究を指す語が別の語として認識されたと考えられます。誤認識の語が話題名になった可能性があります。この話題の中身は確かめていません。</p></section>
 <section class="sec" id="after-map" aria-labelledby="after-map-h"><h2 id="after-map-h">話題マップの後にすること</h2>
       <p>話題マップで決めるのは、読む順番です。下は、今回の結果から運営が組み立てた作業メモの例です。アプリが自動で作る形式ではありません。</p>
@@ -256,7 +256,7 @@ footer p{margin:12px 0 0}
       <ul>
         <li>話題マップは、アプリが発言を自動で分けた結果です。研究のコーディングの代わりにはなりません。読む順番を決める下準備として使ってください</li>
         <li>今回の本文には、話者のラベルがありません。聞き手の質問と話し手の答えが、同じ話題に並びます。話者を分けるには、Premiumの話者識別が要ります。話者を分けた結果は、今回は確かめていません</li>
-        <li>話題に入らなかった発言があるかは、確かめていません。本文は170行で、各話題の件数の合計は91件でした。数え方が同じかは分からないので、漏れの有無は本文を通して読んで確かめてください</li>
+        <li>話題に入らなかった本文があるかは、確かめていません。本文は170行で、各話題の件数の合計は91件でした。数え方が同じかは分からないので、漏れの有無は本文を通して読んで確かめてください</li>
         <li>要約は、話し手の言葉をそのまま残したものではありません。引用には使わず、本文と音声に戻ってください</li>
         <li>既定の方式の文字起こしは音声を、話題マップと要約は文字を、処理のために外部へ送ります。研究計画と同意の範囲に合うかを、先に確認してください。確認する項目は<a href="/guides/research-interview-transcription/#before-import">研究インタビューのガイド</a>にまとめています</li>
       </ul></section>
@@ -265,10 +265,10 @@ footer p{margin:12px 0 0}
       <dl class="facts">
         <dt>検証した人</dt><dd>Texter運営</dd>
         <dt>検証日</dt><dd>2026-11-12</dd>
-        <dt>環境</dt><dd>iPhone 17 ProのSimulator（iOS 26.5）で動かした開発版のTexter（バージョン2.11.68）。無料の状態で、文字起こしの方式は既定のままです。製品版では、画面や結果が異なる場合があります。今回の環境では広告が出ませんでした。製品版の無料版では、取り込みの前に動画広告が出る場合があります。話題マップの画面写真は、開発用の表示が入る上端を切っています。</dd>
+        <dt>環境</dt><dd>iPhone 17 ProのSimulator（iOS 26.5）で動かした開発版のTexter。文字起こし、題名、要約、話題マップはバージョン2.11.68で作り、画面と手順はバージョン2.11.73で確かめ直しました。画面写真は2.11.73のものです。無料の状態で、文字起こしの方式は既定のままです。製品版では、画面や結果が異なる場合があります。今回の環境では広告が出ませんでした。製品版の無料版では、取り込みの前に動画広告が出る場合があります。話題マップの画面写真は、開発用の表示が入る上端を切っています。</dd>
         <dt>音声</dt><dd>「A-PLATube #7 藤田研究員に聞く！日本の地域適応計画は優れてる？」（<a href="https://www.youtube.com/watch?v=EV1QHWqYfUU" target="_blank" rel="noopener noreferrer">YouTube</a>、公開元のチャンネルはCCCA）。YouTube上で「<a href="https://support.google.com/youtube/answer/2797468?hl=ja" target="_blank" rel="noopener noreferrer">クリエイティブ・コモンズ 表示（CC BY）</a>」のライセンスが表示されています（2026-11-12に確認）。音声だけを取り出し、加工せずに取り込みました。</dd>
         <dt>掲載した文</dt><dd>要約、本文の抜粋、話題名は、Texter運営がアプリで処理して得た出力です。公開元が作成・確認したものではありません。本文の全文は載せていません。</dd>
-        <dt>確かめていないこと</dt><dd>音声と本文の聞き比べ、「地震対策」の6件目以降とほかの話題の中身、同じ音声でもう一度作ったときに同じ話題になるか、話者を分けた場合の結果</dd>
+        <dt>確かめていないこと</dt><dd>音声と本文の聞き比べ、「地震対策」以外の話題の中身、同じ音声でもう一度作ったときに同じ話題になるか、話者を分けた場合の結果</dd>
       </dl></section>
 <section class="cta" aria-labelledby="cta-h"><h2 id="cta-h">Texterで試す</h2><p>Texterは、録音や音声ファイルから文字起こしと要約を作るアプリです。この手順はiPhone版のものです。無料で始められます。無料版の文字起こしには上限があり、要約は1日3回までです。処理の前に広告が表示される場合があります。条件は<a href="/pricing/">料金と利用条件</a>で確認できます。</p><div class="row"><a class="btn btn-solid" href="https://apps.apple.com/jp/app/id1482592304?pt=489812&amp;ct=guide-interview-topic-map-end&amp;mt=8" target="_blank" rel="noopener noreferrer" data-cta="guide-interview-topic-map-end" data-store="app_store">iPhoneでインタビューを文字にする（App Store）</a></div></section>
 </main>

diff --git a/dist/guides/lecture-recording-review-notes/index.html b/dist/guides/lecture-recording-review-notes/index.html
@@ -189,12 +189,12 @@ footer p{margin:12px 0 0}
 <section class="sec" id="result" aria-labelledby="result-h"><h2 id="result-h">36分の講義で試した結果</h2>
       <dl class="facts">
         <dt>音声</dt><dd>36分19秒。講師1人が話す、研修の講義です</dd>
-        <dt>かかった時間</dt><dd>取り込みを始めてから、ノートができるまで約9分でした（1回の測定）</dd>
+        <dt>かかった時間</dt><dd>取り込みを始めてから、ノートができるまで約9分でした（バージョン2.11.68で1回測定）</dd>
         <dt>文字起こし</dt><dd>アプリからコピーした本文は、改行を含めて12,697文字でした</dd>
         <dt>要約</dt><dd>747文字。文字起こしの後に、操作をしなくても作られました</dd>
         <dt>題名</dt><dd>「気候変動予測とダウンスケーリング技術について」と自動で付きました</dd>
       </dl>
-      <figure class="shot wide"><a href="/assets/guides/lecture-notes/note-summary.webp"><img src="/assets/guides/lecture-notes/note-summary.webp" alt="講義のノートの画面。題名の下に、内容のまとめが表示されている" width="600" height="1304" loading="lazy" decoding="async"></a><figcaption>取り込んだ後のノート。上に要約、下に本文が続く</figcaption></figure>
+      <figure class="shot wide"><a href="/assets/guides/lecture-notes/note-summary.webp"><img src="/assets/guides/lecture-notes/note-summary.webp" alt="講義のノートの画面。題名の下に、要約が表示されている" width="600" height="1304" loading="lazy" decoding="async"></a><figcaption>取り込んだ後のノート。上に要約、下に本文が続く</figcaption></figure>
       <p>アプリが作った要約の全文です。修正していません。</p>
       <pre class="code"><code>中心テーマ：気候変動予測データの成り立ちと、目的に応じた適切な利用
 
@@ -219,7 +219,7 @@ CMIP5などの全球モデルは世界全体を計算するため、日本海側
         <li><h3>録音を取り込む</h3><p>「設定」タブの「ファイルをインポート」を開き、「音声ファイルをインポート」で録音を選びます。今回は、「ファイル」アプリに置いた音声を選びました。取り込みの画面は<a href="/guides/ai-minutes/#steps">議事録のガイド</a>に載せています。</p></li>
         <li><h3>要約で全体をつかむ</h3><p>処理が終わると、ノートの上に要約が出ます。まず要約を読み、講義がいくつの話題でできているかをつかみます。</p></li>
         <li><h3>本文に戻って確かめる</h3><p>試験やレポートで使う数値と用語は、本文を検索して確かめます。本文は講師の話し言葉のままなので、前後の文脈も読めます。</p></li>
-        <li><h3>確認問題を作る</h3><p>ノートの右下のボタンからチャットを開き、問題を作るよう頼みます。答えは自分で書き、本文と照らします。</p></li>
+        <li><h3>確認問題を作る</h3><p>ノートの右下にある吹き出しのボタンからチャットを開き、問題を作るよう頼みます。答えは自分で書き、本文と照らします。</p></li>
         <li><h3>書き出す</h3><p>「コピー」から、本文か要約を選んでコピーできます。メモアプリなどに貼り、自分の言葉で書き足すと、復習ノートになります。書き方は、下の<a href="#note-example">復習ノートの例</a>を参考にしてください。</p></li>
       </ol></section><aside class="cta inline" aria-label="アプリで試す"><div class="row"><a class="btn btn-solid" href="https://apps.apple.com/jp/app/id1482592304?pt=489812&amp;ct=guide-lecture-notes-after-steps&amp;mt=8" target="_blank" rel="noopener noreferrer" data-cta="guide-lecture-notes-after-steps" data-store="app_store">iPhoneで講義の録音を文字にする（App Store）</a></div></aside>
 <section class="sec" id="note-example" aria-labelledby="note-example-h"><h2 id="note-example-h">復習ノートの例</h2>
@@ -254,12 +254,12 @@ CMIP5などの全球モデルは世界全体を計算するため、日本海側
       </tbody></table></div>
       <p>同じ用語でも、正しい箇所と誤った箇所がありました。「全球モデル」は17か所、「ダウンスケーリング」は27か所で正しく表記され、上の表の箇所だけが別の字になっています。誤りは、用語を検索しても見つかりません。配布資料や板書と照らしながら、本文を通して読んでください。</p></section>
 <section class="sec" id="quiz" aria-labelledby="quiz-h"><h2 id="quiz-h">チャットで確認問題を作った結果</h2>
-      <p>ノートのチャットを開くと、「長めの講義ですね」という案内と、「重要概念を整理」「テスト問題を作成」などの候補が出ました。「テスト問題を作成」を選ぶと、次の3問が返りました。3問目は、画面で読めた範囲を載せています。</p>
-      <figure class="shot"><a href="/assets/guides/lecture-notes/chat-welcome.webp"><img src="/assets/guides/lecture-notes/chat-welcome.webp" alt="チャットを開いた直後の画面。要約して、重要概念を整理、テスト問題を作成の候補がある" width="600" height="1304" loading="lazy" decoding="async"></a><figcaption>チャットを開いた直後の候補</figcaption></figure><figure class="shot"><a href="/assets/guides/lecture-notes/chat-quiz.webp"><img src="/assets/guides/lecture-notes/chat-quiz.webp" alt="チャットの画面。理解度確認のテスト問題を3つ作成してください、という依頼と、問題1から問題3が表示されている" width="600" height="1304" loading="lazy" decoding="async"></a><figcaption>返ってきた確認問題</figcaption></figure>
+      <p>ノートの右下にある吹き出しのボタンを押すと、チャットが開きます。入力欄の上に、「要約して」「重要概念を整理」「テスト問題を作成」などの候補が並びます。「テスト問題を作成」を選ぶと、次の3問が返りました。</p>
+      <figure class="shot wide"><a href="/assets/guides/lecture-notes/chat-quiz.webp"><img src="/assets/guides/lecture-notes/chat-quiz.webp" alt="チャットの画面。理解度確認のテスト問題を3つ作成してください、という依頼と、問題1から問題3が表示されている。下に候補が並ぶ" width="600" height="1304" loading="lazy" decoding="async"></a><figcaption>返ってきた確認問題と、入力欄の上の候補</figcaption></figure>
       <ul>
         <li>問題1：RCPシナリオでは、数字が大きいほどどのような排出の想定になりますか。また、RCP2.6が注目される理由は何ですか？</li>
         <li>問題2：全球モデルだけでは地域の気候を詳しく把握しにくいのはなぜですか。地域単位の情報を得るための方法を2つ挙げてください。</li>
-        <li>問題3：長期的な温暖化傾向と、洪水・熱波などの極端現象を評価する場合、それぞれどのダウンスケーリング手法が適していると説明されて（以下は画面の外）</li>
+        <li>問題3：長期的な温暖化傾向と、洪水・熱波などの極端現象を評価する場合、それぞれどのダウンスケーリング手法が適していると説明されていますか？</li>
       </ul>
       <p>3問とも、要約の項目に対応した内容でした。問題の答えは、今回は作っていません。チャットの答えには誤りが含まれる場合があるので、解答を作らせたときも本文で確かめてください。無料版のチャットは1日3回までです。今回は、チャットで「要約して」を選んだ分と合わせて2回使い、画面には「残り1回」と出ました。</p></section>
 <section class="sec" id="notes" aria-labelledby="notes-h"><h2 id="notes-h">始める前の注意</h2>
@@ -274,7 +274,7 @@ CMIP5などの全球モデルは世界全体を計算するため、日本海側
       <dl class="facts">
         <dt>検証した人</dt><dd>Texter運営</dd>
         <dt>検証日</dt><dd>2026-11-12</dd>
-        <dt>環境</dt><dd>iPhone 17 ProのSimulator（iOS 26.5）で動かした開発版のTexter（バージョン2.11.68）。無料の状態で、文字起こしの方式は既定のままです。製品版では、画面や結果が異なる場合があります。今回の環境では広告が出ませんでした。製品版の無料版では、取り込みの前に動画広告が出る場合があります。</dd>
+        <dt>環境</dt><dd>iPhone 17 ProのSimulator（iOS 26.5）で動かした開発版のTexter。文字起こし、題名、要約、チャットの回答はバージョン2.11.68で作り、画面と手順はバージョン2.11.73で確かめ直しました。画面写真は2.11.73のものです。無料の状態で、文字起こしの方式は既定のままです。製品版では、画面や結果が異なる場合があります。今回の環境では広告が出ませんでした。製品版の無料版では、取り込みの前に動画広告が出る場合があります。</dd>
         <dt>音声</dt><dd>「講義1：気候変動予測の背景【令和２年度 気候変動適応研修（中級コース）】」（<a href="https://www.youtube.com/watch?v=CWKzoUU6-IU" target="_blank" rel="noopener noreferrer">YouTube</a>、公開元のチャンネルはCCCA）。YouTube上で「<a href="https://support.google.com/youtube/answer/2797468?hl=ja" target="_blank" rel="noopener noreferrer">クリエイティブ・コモンズ 表示（CC BY）</a>」のライセンスが表示されています（2026-11-12に確認）。音声だけを取り出し、加工せずに取り込みました。</dd>
         <dt>掲載した文</dt><dd>要約、本文の抜粋、確認問題は、Texter運営がアプリで処理して得た出力です。公開元が作成・確認したものではありません。本文の全文は載せていません。</dd>
         <dt>確かめていないこと</dt><dd>音声と本文の聞き比べ、誤りの割合、ほかの講義や端末での速さ</dd>

diff --git a/guides/lecture-recording-review-notes/index.html b/guides/lecture-recording-review-notes/index.html
@@ -189,12 +189,12 @@ footer p{margin:12px 0 0}
 <section class="sec" id="result" aria-labelledby="result-h"><h2 id="result-h">36分の講義で試した結果</h2>
       <dl class="facts">
         <dt>音声</dt><dd>36分19秒。講師1人が話す、研修の講義です</dd>
-        <dt>かかった時間</dt><dd>取り込みを始めてから、ノートができるまで約9分でした（1回の測定）</dd>
+        <dt>かかった時間</dt><dd>取り込みを始めてから、ノートができるまで約9分でした（バージョン2.11.68で1回測定）</dd>
         <dt>文字起こし</dt><dd>アプリからコピーした本文は、改行を含めて12,697文字でした</dd>
         <dt>要約</dt><dd>747文字。文字起こしの後に、操作をしなくても作られました</dd>
         <dt>題名</dt><dd>「気候変動予測とダウンスケーリング技術について」と自動で付きました</dd>
       </dl>
-      <figure class="shot wide"><a href="/assets/guides/lecture-notes/note-summary.webp"><img src="/assets/guides/lecture-notes/note-summary.webp" alt="講義のノートの画面。題名の下に、内容のまとめが表示されている" width="600" height="1304" loading="lazy" decoding="async"></a><figcaption>取り込んだ後のノート。上に要約、下に本文が続く</figcaption></figure>
+      <figure class="shot wide"><a href="/assets/guides/lecture-notes/note-summary.webp"><img src="/assets/guides/lecture-notes/note-summary.webp" alt="講義のノートの画面。題名の下に、要約が表示されている" width="600" height="1304" loading="lazy" decoding="async"></a><figcaption>取り込んだ後のノート。上に要約、下に本文が続く</figcaption></figure>
       <p>アプリが作った要約の全文です。修正していません。</p>
       <pre class="code"><code>中心テーマ：気候変動予測データの成り立ちと、目的に応じた適切な利用
 
@@ -219,7 +219,7 @@ CMIP5などの全球モデルは世界全体を計算するため、日本海側
         <li><h3>録音を取り込む</h3><p>「設定」タブの「ファイルをインポート」を開き、「音声ファイルをインポート」で録音を選びます。今回は、「ファイル」アプリに置いた音声を選びました。取り込みの画面は<a href="/guides/ai-minutes/#steps">議事録のガイド</a>に載せています。</p></li>
         <li><h3>要約で全体をつかむ</h3><p>処理が終わると、ノートの上に要約が出ます。まず要約を読み、講義がいくつの話題でできているかをつかみます。</p></li>
         <li><h3>本文に戻って確かめる</h3><p>試験やレポートで使う数値と用語は、本文を検索して確かめます。本文は講師の話し言葉のままなので、前後の文脈も読めます。</p></li>
-        <li><h3>確認問題を作る</h3><p>ノートの右下のボタンからチャットを開き、問題を作るよう頼みます。答えは自分で書き、本文と照らします。</p></li>
+        <li><h3>確認問題を作る</h3><p>ノートの右下にある吹き出しのボタンからチャットを開き、問題を作るよう頼みます。答えは自分で書き、本文と照らします。</p></li>
         <li><h3>書き出す</h3><p>「コピー」から、本文か要約を選んでコピーできます。メモアプリなどに貼り、自分の言葉で書き足すと、復習ノートになります。書き方は、下の<a href="#note-example">復習ノートの例</a>を参考にしてください。</p></li>
       </ol></section><aside class="cta inline" aria-label="アプリで試す"><div class="row"><a class="btn btn-solid" href="https://apps.apple.com/jp/app/id1482592304?pt=489812&amp;ct=guide-lecture-notes-after-steps&amp;mt=8" target="_blank" rel="noopener noreferrer" data-cta="guide-lecture-notes-after-steps" data-store="app_store">iPhoneで講義の録音を文字にする（App Store）</a></div></aside>
 <section class="sec" id="note-example" aria-labelledby="note-example-h"><h2 id="note-example-h">復習ノートの例</h2>
@@ -254,12 +254,12 @@ CMIP5などの全球モデルは世界全体を計算するため、日本海側
       </tbody></table></div>
       <p>同じ用語でも、正しい箇所と誤った箇所がありました。「全球モデル」は17か所、「ダウンスケーリング」は27か所で正しく表記され、上の表の箇所だけが別の字になっています。誤りは、用語を検索しても見つかりません。配布資料や板書と照らしながら、本文を通して読んでください。</p></section>
 <section class="sec" id="quiz" aria-labelledby="quiz-h"><h2 id="quiz-h">チャットで確認問題を作った結果</h2>
-      <p>ノートのチャットを開くと、「長めの講義ですね」という案内と、「重要概念を整理」「テスト問題を作成」などの候補が出ました。「テスト問題を作成」を選ぶと、次の3問が返りました。3問目は、画面で読めた範囲を載せています。</p>
-      <figure class="shot"><a href="/assets/guides/lecture-notes/chat-welcome.webp"><img src="/assets/guides/lecture-notes/chat-welcome.webp" alt="チャットを開いた直後の画面。要約して、重要概念を整理、テスト問題を作成の候補がある" width="600" height="1304" loading="lazy" decoding="async"></a><figcaption>チャットを開いた直後の候補</figcaption></figure><figure class="shot"><a href="/assets/guides/lecture-notes/chat-quiz.webp"><img src="/assets/guides/lecture-notes/chat-quiz.webp" alt="チャットの画面。理解度確認のテスト問題を3つ作成してください、という依頼と、問題1から問題3が表示されている" width="600" height="1304" loading="lazy" decoding="async"></a><figcaption>返ってきた確認問題</figcaption></figure>
+      <p>ノートの右下にある吹き出しのボタンを押すと、チャットが開きます。入力欄の上に、「要約して」「重要概念を整理」「テスト問題を作成」などの候補が並びます。「テスト問題を作成」を選ぶと、次の3問が返りました。</p>
+      <figure class="shot wide"><a href="/assets/guides/lecture-notes/chat-quiz.webp"><img src="/assets/guides/lecture-notes/chat-quiz.webp" alt="チャットの画面。理解度確認のテスト問題を3つ作成してください、という依頼と、問題1から問題3が表示されている。下に候補が並ぶ" width="600" height="1304" loading="lazy" decoding="async"></a><figcaption>返ってきた確認問題と、入力欄の上の候補</figcaption></figure>
       <ul>
         <li>問題1：RCPシナリオでは、数字が大きいほどどのような排出の想定になりますか。また、RCP2.6が注目される理由は何ですか？</li>
         <li>問題2：全球モデルだけでは地域の気候を詳しく把握しにくいのはなぜですか。地域単位の情報を得るための方法を2つ挙げてください。</li>
-        <li>問題3：長期的な温暖化傾向と、洪水・熱波などの極端現象を評価する場合、それぞれどのダウンスケーリング手法が適していると説明されて（以下は画面の外）</li>
+        <li>問題3：長期的な温暖化傾向と、洪水・熱波などの極端現象を評価する場合、それぞれどのダウンスケーリング手法が適していると説明されていますか？</li>
       </ul>
       <p>3問とも、要約の項目に対応した内容でした。問題の答えは、今回は作っていません。チャットの答えには誤りが含まれる場合があるので、解答を作らせたときも本文で確かめてください。無料版のチャットは1日3回までです。今回は、チャットで「要約して」を選んだ分と合わせて2回使い、画面には「残り1回」と出ました。</p></section>
 <section class="sec" id="notes" aria-labelledby="notes-h"><h2 id="notes-h">始める前の注意</h2>
@@ -274,7 +274,7 @@ CMIP5などの全球モデルは世界全体を計算するため、日本海側
       <dl class="facts">
         <dt>検証した人</dt><dd>Texter運営</dd>
         <dt>検証日</dt><dd>2026-11-12</dd>
-        <dt>環境</dt><dd>iPhone 17 ProのSimulator（iOS 26.5）で動かした開発版のTexter（バージョン2.11.68）。無料の状態で、文字起こしの方式は既定のままです。製品版では、画面や結果が異なる場合があります。今回の環境では広告が出ませんでした。製品版の無料版では、取り込みの前に動画広告が出る場合があります。</dd>
+        <dt>環境</dt><dd>iPhone 17 ProのSimulator（iOS 26.5）で動かした開発版のTexter。文字起こし、題名、要約、チャットの回答はバージョン2.11.68で作り、画面と手順はバージョン2.11.73で確かめ直しました。画面写真は2.11.73のものです。無料の状態で、文字起こしの方式は既定のままです。製品版では、画面や結果が異なる場合があります。今回の環境では広告が出ませんでした。製品版の無料版では、取り込みの前に動画広告が出る場合があります。</dd>
         <dt>音声</dt><dd>「講義1：気候変動予測の背景【令和２年度 気候変動適応研修（中級コース）】」（<a href="https://www.youtube.com/watch?v=CWKzoUU6-IU" target="_blank" rel="noopener noreferrer">YouTube</a>、公開元のチャンネルはCCCA）。YouTube上で「<a href="https://support.google.com/youtube/answer/2797468?hl=ja" target="_blank" rel="noopener noreferrer">クリエイティブ・コモンズ 表示（CC BY）</a>」のライセンスが表示されています（2026-11-12に確認）。音声だけを取り出し、加工せずに取り込みました。</dd>
         <dt>掲載した文</dt><dd>要約、本文の抜粋、確認問題は、Texter運営がアプリで処理して得た出力です。公開元が作成・確認したものではありません。本文の全文は載せていません。</dd>
         <dt>確かめていないこと</dt><dd>音声と本文の聞き比べ、誤りの割合、ほかの講義や端末での速さ</dd>
